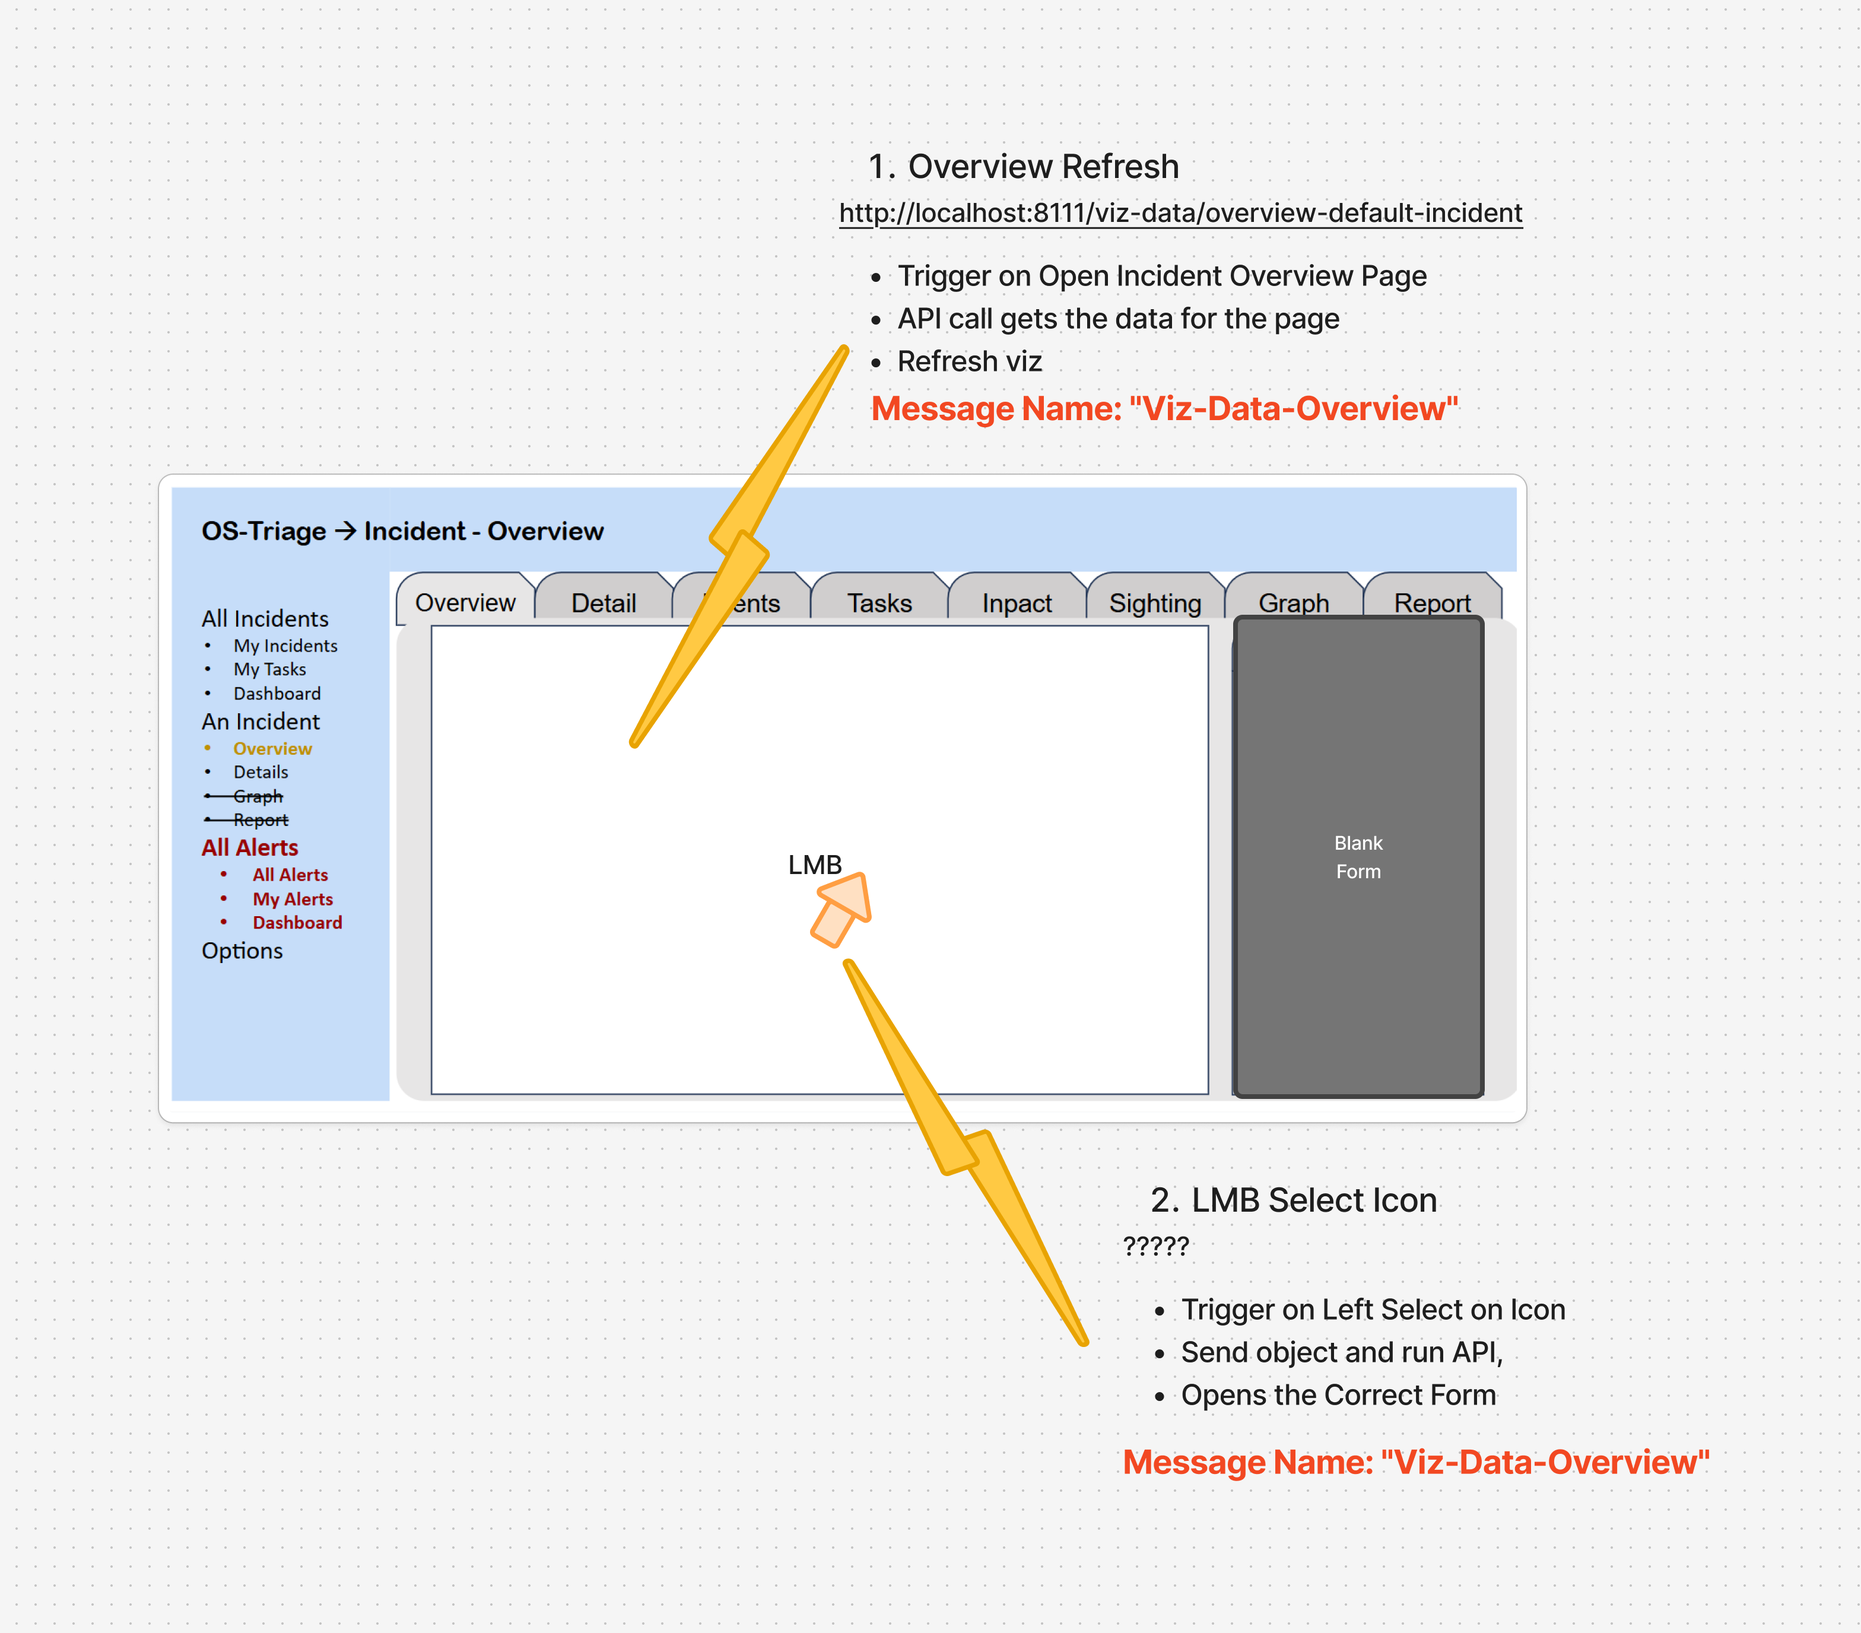
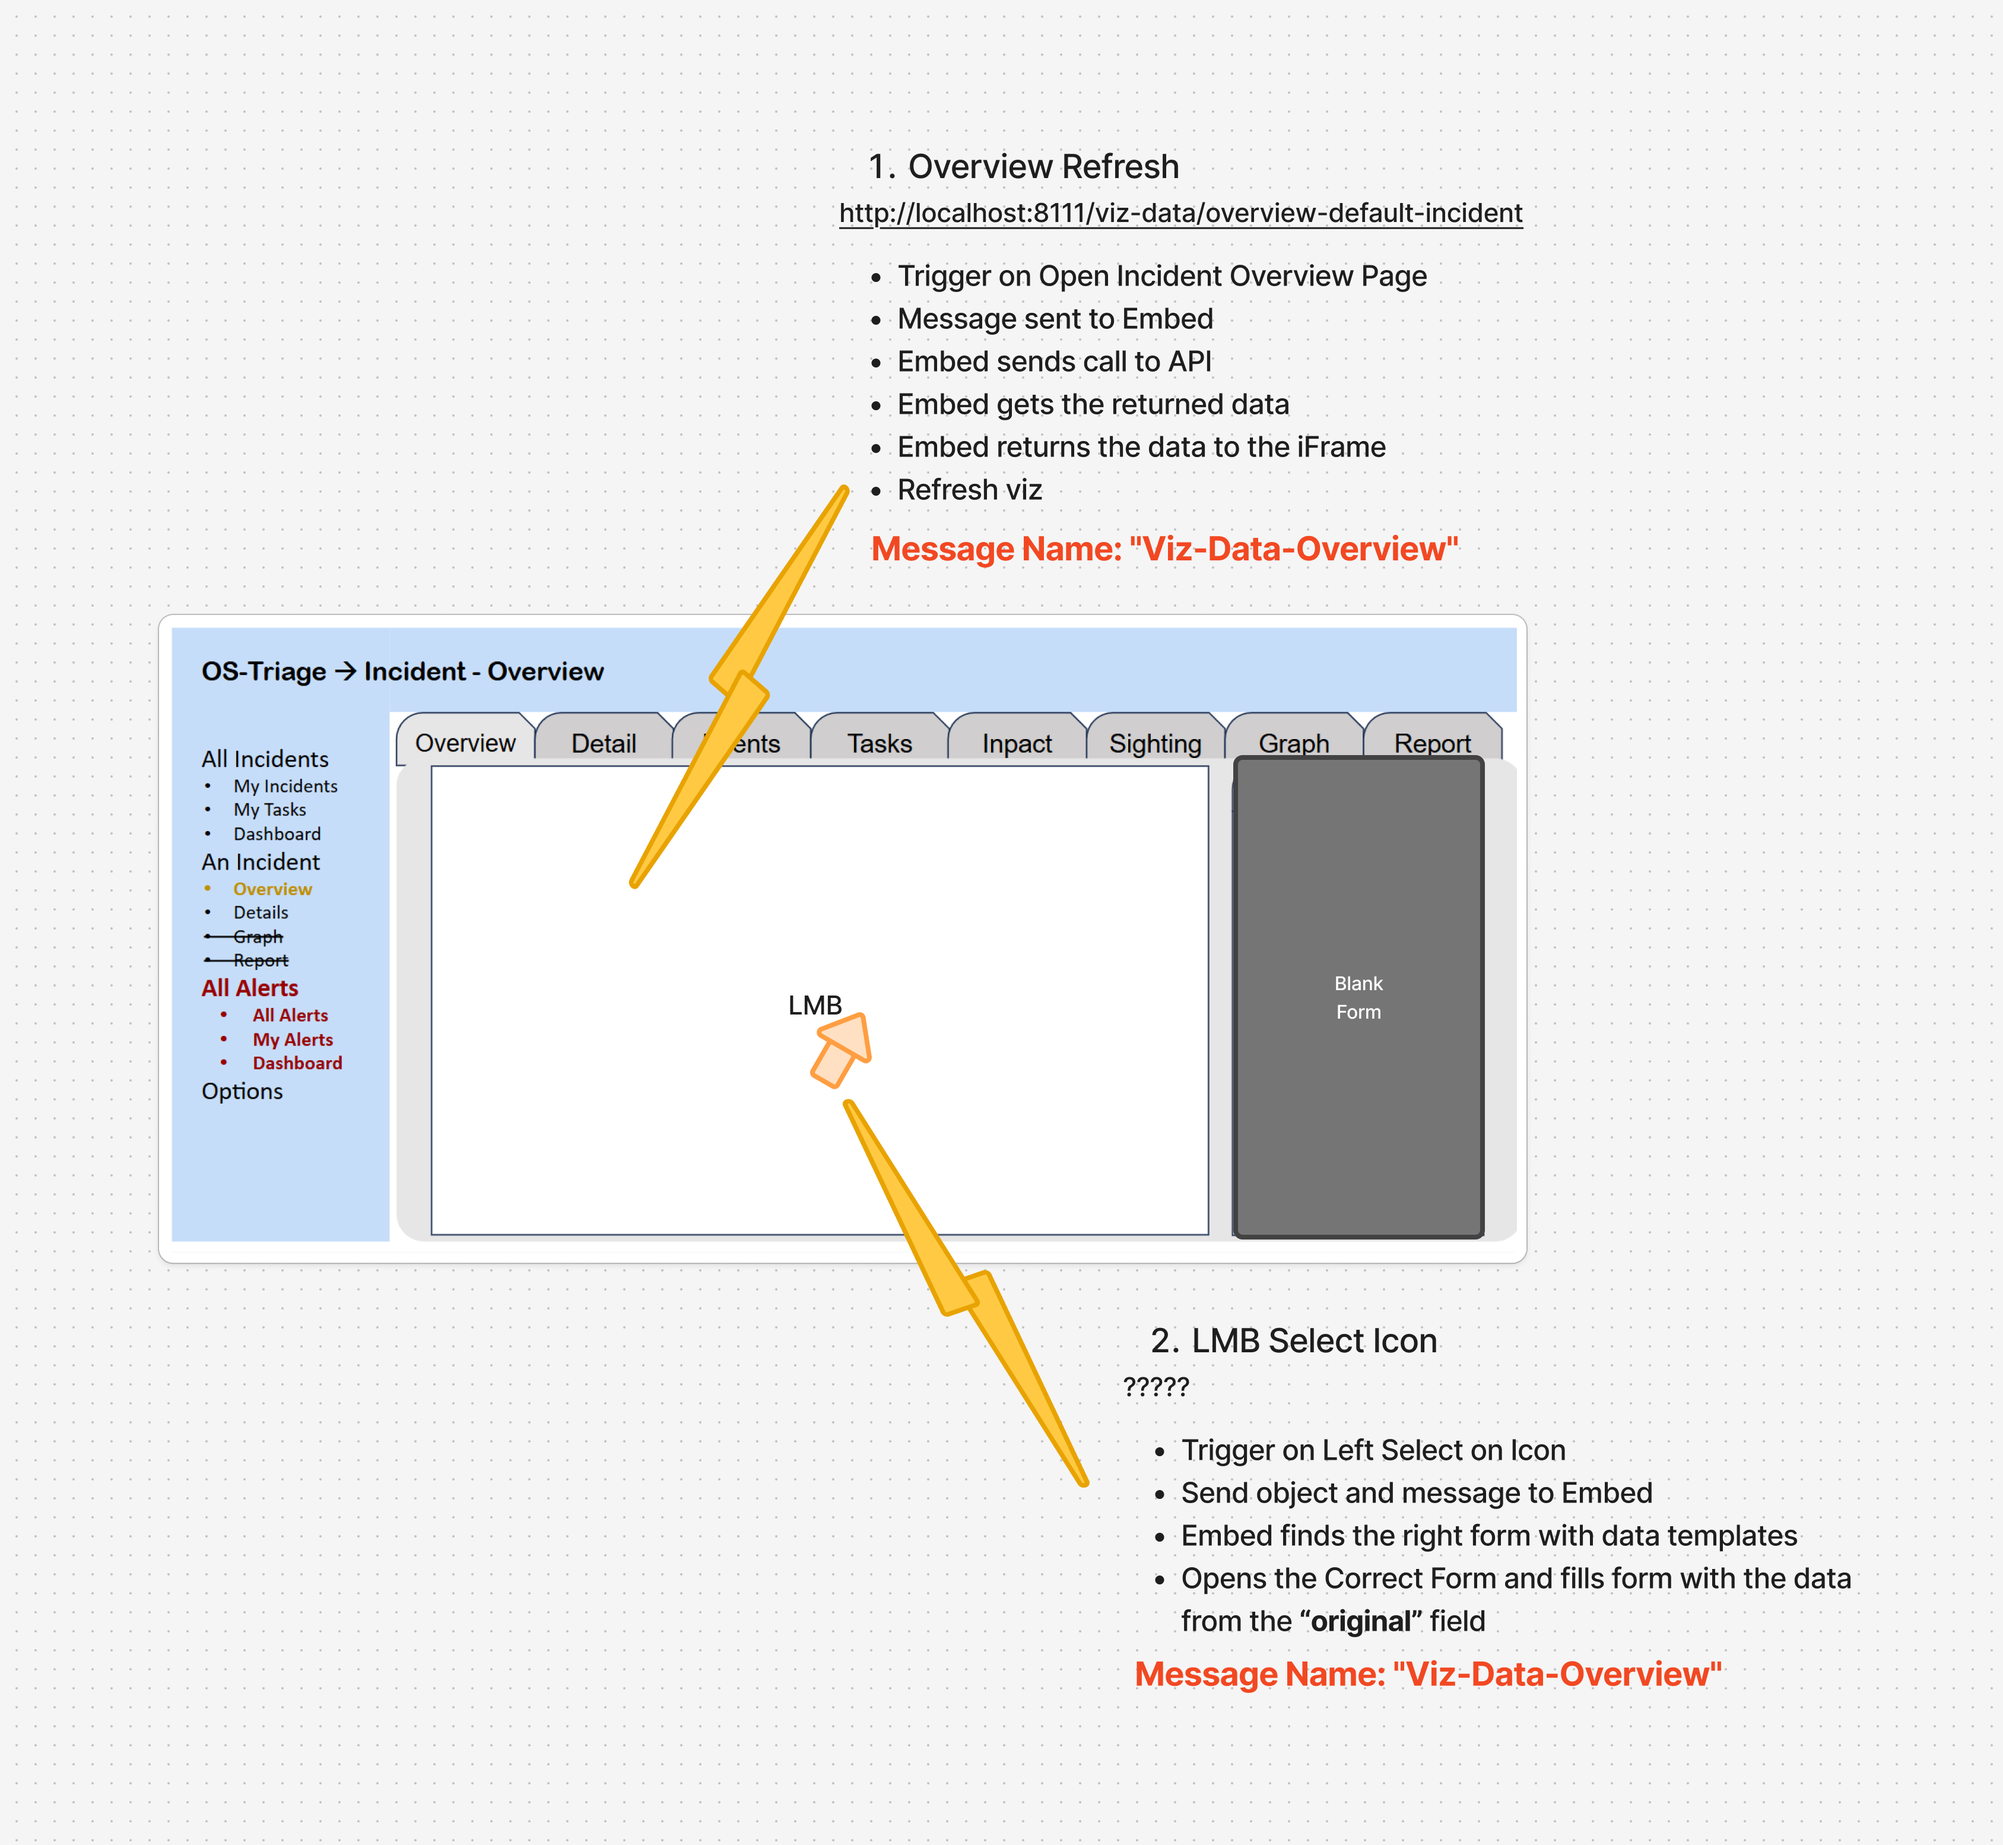
Update API diagrams

Changed region(s): [[0.0625, 0.0625, 0.9375, 0.9375]]

diff --git a/6-Page-3-Incident-Detail.md b/6-Page-3-Incident-Detail.md
@@ -1,0 +1,13 @@
+# Page 3: Incident Details
+
+This si the most sophisticatdd view, combining an iFrame with three spearate viz, forms and external buttons
+
+The prototype includes a number of events, which must first be sent as Messages from the iFrame to the Embed, which then translates them to an api, see image below.
+
+![Built Using Existing Widgets](./img/Screen-3-Event-Summary.png)
+
+## Event 1: Incident Detail Refresh
+
+
+## Event 2: LMB Left-Select, Open Form
+
